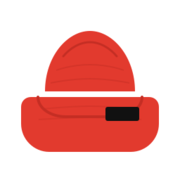
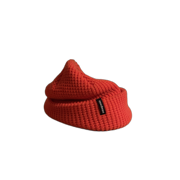
fix: Update base_url, brand assets, dark mode, and radar embed
- Set base_url to https://kcirtap.io (was GitHub Pages URL)
- Replace favicon PNGs with real beanie photo from brand kit
- Add favicon.ico from brand kit
- Add color-scheme meta tag and CSS property for proper dark/light
  system detection
- Sync Sudoku game theme with system color scheme changes
- Replace broken radar iframe on homepage with styled card linking
  directly to radar.kcirtap.io (X-Frame-Options blocks embedding)
- Add iframe fallback on /radar/ page for when embed is blocked

diff --git a/templates/index.html b/templates/index.html
@@ -132,42 +132,46 @@
         font-family: monospace;
     }
 
-    /* Radar preview */
-    .radar-preview {
-        width: 100%;
-        height: 400px;
-        border-radius: 0.75rem;
-        overflow: hidden;
-        border: 1px solid var(--border);
-        position: relative;
-    }
-    .radar-preview iframe {
-        width: 100%;
-        height: 100%;
-        border: none;
-        pointer-events: none;
-    }
-    .radar-overlay {
-        position: absolute;
-        inset: 0;
+    /* Radar card */
+    .radar-card {
         display: flex;
-        align-items: flex-end;
+        flex-direction: column;
+        align-items: center;
         justify-content: center;
-        padding-bottom: 1.5rem;
-        background: linear-gradient(to top, rgba(0,0,0,0.5) 0%, transparent 40%);
-        cursor: pointer;
-        text-decoration: none;
+        gap: 1rem;
+        padding: 3rem 1.5rem;
+        border: 1px solid var(--border);
+        border-radius: 0.75rem;
+        text-align: center;
+        background:
+            radial-gradient(circle at 30% 40%, rgba(226, 58, 46, 0.06) 0%, transparent 50%),
+            radial-gradient(circle at 70% 60%, rgba(226, 58, 46, 0.04) 0%, transparent 50%);
     }
-    .radar-overlay span {
-        padding: 0.5rem 1.5rem;
+    .radar-card-icon {
+        font-size: 3rem;
+        line-height: 1;
+    }
+    .radar-card p {
+        margin: 0;
+        color: var(--text-secondary);
+        font-size: 0.875rem;
+        max-width: 32rem;
+    }
+    .radar-card .radar-link {
+        display: inline-block;
+        padding: 0.625rem 1.5rem;
         background: var(--accent);
         color: white;
         border-radius: 0.5rem;
         font-size: 0.875rem;
         font-weight: 500;
+        text-decoration: none;
+        transition: background 200ms ease;
     }
-    .radar-overlay:hover span {
+    .radar-card .radar-link:hover {
         background: var(--accent-hover);
+        text-decoration: none;
+        color: white;
     }
 </style>
 {% endblock %}
@@ -264,21 +268,15 @@
     </div>
 </div>
 
-<!-- Radar Preview -->
+<!-- Live Radar -->
 <div class="home-section">
     <div class="section-header">
         <h2>Live Radar</h2>
-        <a href="/radar/" class="view-all">Full view &rarr;</a>
     </div>
-    <div class="radar-preview">
-        <iframe
-            src="https://radar.kcirtap.io/"
-            title="Live ADS-B Radar"
-            loading="lazy"
-        ></iframe>
-        <a href="/radar/" class="radar-overlay">
-            <span>Open full radar</span>
-        </a>
+    <div class="radar-card">
+        <div class="radar-card-icon">&#9992;&#65039;</div>
+        <p>Real-time aircraft tracking powered by a Raspberry Pi 4, RTL-SDR dongle, and a 1090&nbsp;MHz antenna feeding into the global ADS-B network.</p>
+        <a href="https://radar.kcirtap.io/" class="radar-link" target="_blank" rel="noopener">Open live radar &rarr;</a>
     </div>
 </div>
 
@@ -286,7 +284,8 @@
     import init, { SudokuGame } from '/sudoku/sudoku_wasm.js';
 
     let game = null;
-    let currentTheme = window.matchMedia('(prefers-color-scheme: dark)').matches ? 'dark' : 'light';
+    const darkQuery = window.matchMedia('(prefers-color-scheme: dark)');
+    let currentTheme = darkQuery.matches ? 'dark' : 'light';
 
     async function initSudoku() {
         await init('/sudoku/sudoku_wasm_bg.wasm');
@@ -300,6 +299,12 @@
             requestAnimationFrame(gameLoop);
         }
         gameLoop();
+
+        // Sync with system color scheme changes
+        darkQuery.addEventListener('change', (e) => {
+            currentTheme = e.matches ? 'dark' : 'light';
+            game.set_theme(currentTheme);
+        });
 
         document.addEventListener('keydown', (event) => {
             if (event.target.tagName === 'INPUT' || event.target.tagName === 'TEXTAREA' || event.target.tagName === 'SELECT') return;

diff --git a/templates/radar.html b/templates/radar.html
@@ -13,6 +13,7 @@
         overflow: hidden;
         box-shadow: 0 4px 6px rgba(0, 0, 0, 0.1);
         margin: 2rem 0;
+        position: relative;
     }
 
     .radar-container iframe {
@@ -21,14 +22,47 @@
         border: none;
     }
 
-    .radar-info {
-        margin-top: 2rem;
+    .radar-fallback {
+        display: none;
+        position: absolute;
+        inset: 0;
+        flex-direction: column;
+        align-items: center;
+        justify-content: center;
+        gap: 1rem;
+        background: var(--code-bg);
+        border-radius: 8px;
+        text-align: center;
+        padding: 2rem;
     }
 
-    @media (prefers-color-scheme: dark) {
-        .stat-card {
-            background: #2d2d2d;
-        }
+    .radar-fallback-icon {
+        font-size: 3rem;
+    }
+
+    .radar-fallback p {
+        color: var(--text-secondary);
+        max-width: 28rem;
+    }
+
+    .radar-fallback .radar-open-link {
+        display: inline-block;
+        padding: 0.625rem 1.5rem;
+        background: var(--accent);
+        color: white;
+        border-radius: 0.5rem;
+        font-weight: 500;
+        text-decoration: none;
+    }
+
+    .radar-fallback .radar-open-link:hover {
+        background: var(--accent-hover);
+        text-decoration: none;
+        color: white;
+    }
+
+    .radar-info {
+        margin-top: 2rem;
     }
 </style>
 {% endblock %}
@@ -42,17 +76,47 @@
         {% endif %}
     </header>
 
-    <div class="radar-container">
+    <div class="radar-container" id="radar-container">
         <iframe
+            id="radar-iframe"
             src="https://radar.kcirtap.io/"
             title="Live ADS-B Radar"
             loading="lazy"
             allow="fullscreen"
         ></iframe>
+        <div class="radar-fallback" id="radar-fallback">
+            <div class="radar-fallback-icon">&#9992;&#65039;</div>
+            <p>The radar feed can't be embedded here due to browser security policy. Open it directly instead:</p>
+            <a href="https://radar.kcirtap.io/" class="radar-open-link" target="_blank" rel="noopener">Open radar.kcirtap.io &rarr;</a>
+        </div>
     </div>
 
     <div class="radar-info">
         {{ page.content | safe }}
     </div>
 </article>
+
+<script>
+    (function() {
+        var fallback = document.getElementById('radar-fallback');
+        var iframe = document.getElementById('radar-iframe');
+        // If the iframe is blocked by X-Frame-Options, the browser won't fire
+        // an error event but the frame will be empty. Use a timeout fallback.
+        setTimeout(function() {
+            try {
+                // Cross-origin access throws — that means the frame loaded (good).
+                void iframe.contentWindow.location.href;
+                // If we get here, same-origin and accessible — should not happen for
+                // radar.kcirtap.io on kcirtap.io, but means it loaded.
+            } catch(e) {
+                if (e.name === 'SecurityError') {
+                    // Cross-origin frame loaded successfully
+                    return;
+                }
+                // Other error — frame may be blocked
+                fallback.style.display = 'flex';
+            }
+        }, 4000);
+    })();
+</script>
 {% endblock %}

diff --git a/templates/base.html b/templates/base.html
@@ -3,6 +3,7 @@
 <head>
     <meta charset="UTF-8">
     <meta name="viewport" content="width=device-width, initial-scale=1.0">
+    <meta name="color-scheme" content="light dark">
 
     <title>{% block title %}{{ config.title }}{% endblock %}</title>
     <meta name="description" content="{% block description %}{{ config.description }}{% endblock %}">
@@ -31,6 +32,7 @@
     <link rel="stylesheet" href="{{ get_url(path='style.css') }}">
 
     <!-- Favicons -->
+    <link rel="icon" href="{{ get_url(path='favicon.ico') }}" sizes="any">
     <link rel="icon" type="image/png" sizes="32x32" href="{{ get_url(path='icon-32.png') }}">
     <link rel="icon" type="image/png" sizes="192x192" href="{{ get_url(path='icon-192.png') }}">
     <link rel="apple-touch-icon" sizes="180x180" href="{{ get_url(path='icon-180.png') }}">

diff --git a/sass/_base.scss b/sass/_base.scss
@@ -3,6 +3,7 @@
 
 // CSS Custom Properties (for dark mode switching)
 :root {
+  color-scheme: light dark;
   --bg: #{$bg-light};
   --text: #{$text-light};
   --text-secondary: #{$text-secondary-light};
